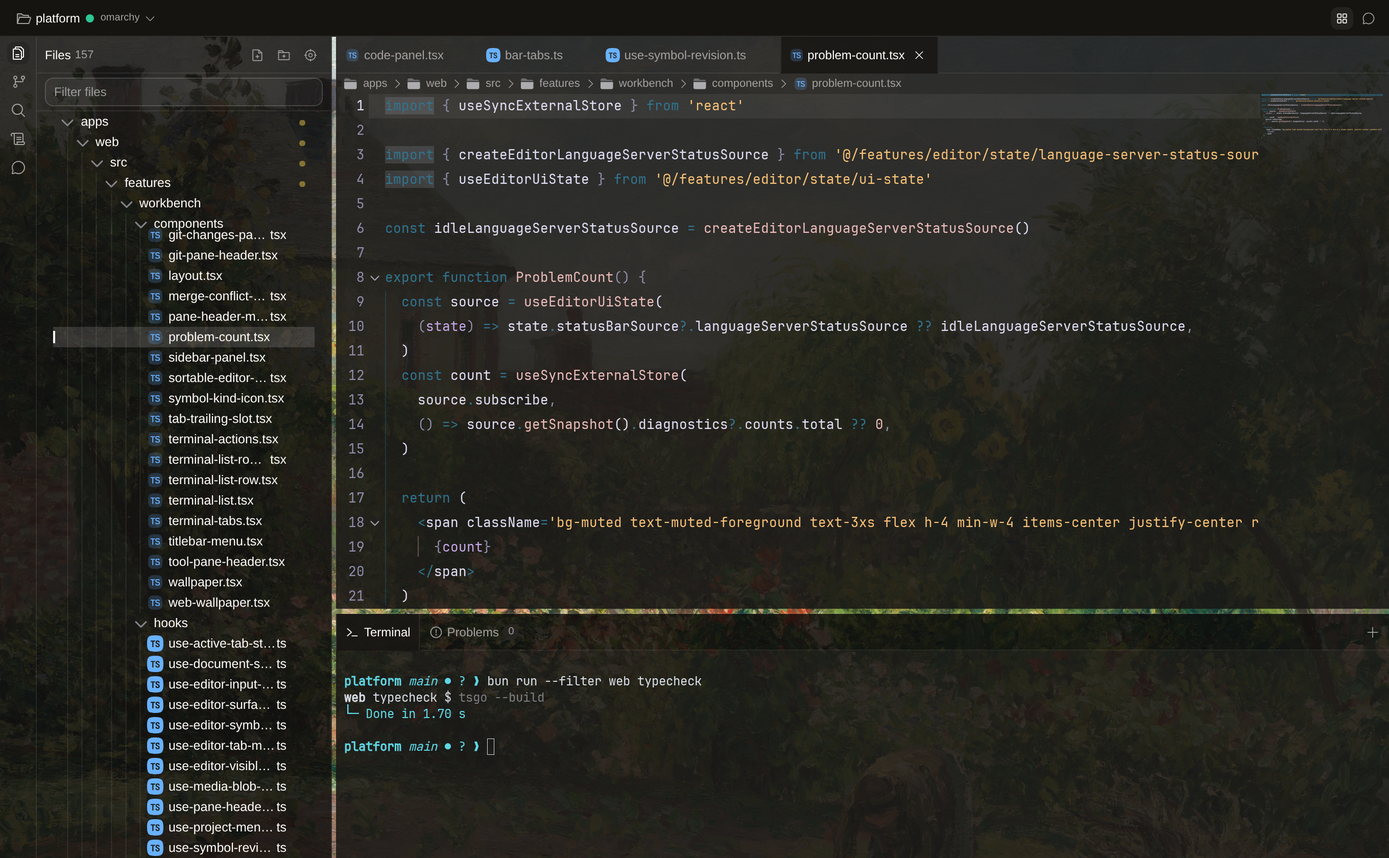
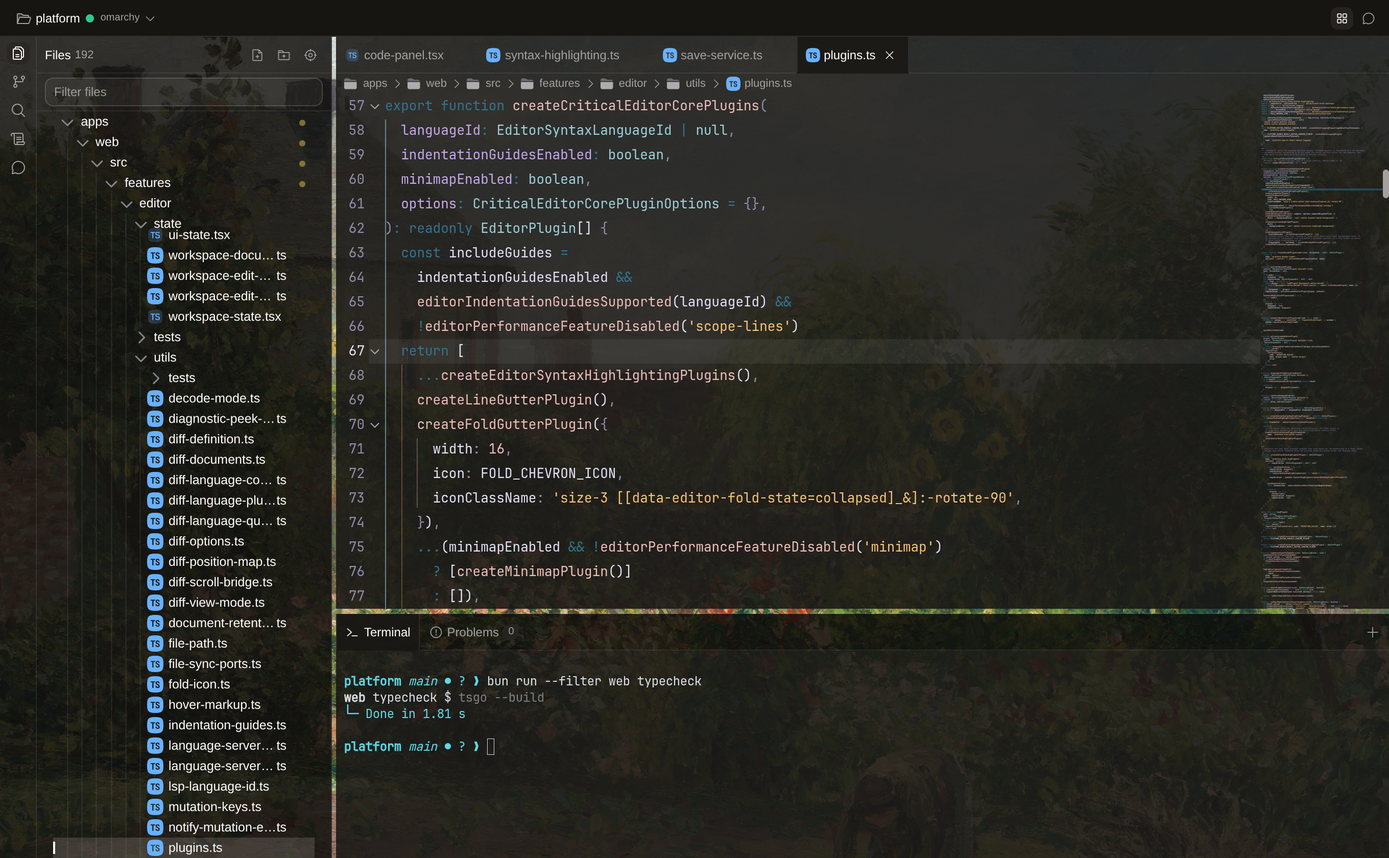
Capture the product hero with headed Chromium and preserve its pixels

diff --git a/scripts/agent/browser.ts b/scripts/agent/browser.ts
@@ -20,6 +20,7 @@ import {
 import { alignProductWallpaper, routeProductWallpaper } from './product-wallpaper'
 import { createScriptError } from '../structured-errors'
 import { isolateProductTerminals } from './product-terminal'
+import { captureBrowserRenderer } from './browser-renderer'
 
 const PRODUCT_USER_AGENT =
   'Mozilla/5.0 (Windows NT 10.0; Win64; x64) AppleWebKit/537.36 (KHTML, like Gecko) Chrome/145.0.0.0 Safari/537.36'
@@ -79,7 +80,7 @@ async function main() {
       height: { type: 'string' },
       scale: { type: 'string' },
       doctor: { type: 'boolean', default: false },
-      file: { type: 'string', default: DEFAULT_FILE },
+      file: { type: 'string' },
       headed: { type: 'boolean', default: false },
       selector: { type: 'string' },
       url: { type: 'string', default: DEFAULT_URL },
@@ -105,7 +106,7 @@ async function main() {
     productWallpaper: values['product-wallpaper'],
     compare: values.compare,
     doctor: values.doctor,
-    file: values.file,
+    file: values.file ?? (name === 'editor-product' ? 'plugins.ts' : DEFAULT_FILE),
     headed: values.headed,
     selector: values.selector,
     url: values['static-dir'] ? STATIC_PREVIEW_URL : values.url,
@@ -510,6 +511,7 @@ async function withPage(
   let saveWallpaper: (() => Promise<string>) | undefined
   let disposeTerminals: (() => Promise<string>) | undefined
   try {
+    await captureBrowserRenderer(browser, evidence, options.headed)
     if (options.productCapture) disposeTerminals = await isolateProductTerminals(page, evidence)
     const staticDirectory = options.staticDir
       ? await routeStaticPreview(page, options.staticDir)

diff --git a/scripts/agent/scenarios/editor-product.ts b/scripts/agent/scenarios/editor-product.ts
@@ -1,13 +1,13 @@
 import type { Scenario } from './index'
-import { focusEditor, openFileByName, selectors } from '../selectors'
+import { chords, focusEditor, openFileByName, selectors } from '../selectors'
 
 export const editorProduct: Scenario = {
   name: 'editor-product',
   description: 'Open real workbench source files for a high-resolution product capture.',
   async run(page, { file, step }) {
     await openFileByName(page, 'code-panel.tsx')
-    await openFileByName(page, 'bar-tabs.ts')
-    await openFileByName(page, 'use-symbol-revision.ts')
+    await openFileByName(page, 'syntax-highlighting.ts')
+    await openFileByName(page, 'save-service.ts')
     await openFileByName(page, file)
     await selectors
       .terminalSurface(page)
@@ -19,6 +19,11 @@ export const editorProduct: Scenario = {
     await step('terminal-command')
     await focusEditor(page)
     await page.keyboard.press('Control+Home')
+    if (file === 'plugins.ts') {
+      await page.keyboard.press(chords.commandPalette)
+      await selectors.paletteInput(page).fill(':67')
+      await page.keyboard.press('Enter')
+    }
     await page.waitForTimeout(1500)
     await selectors.windowToolbar(page).hover()
     await step('editor')

diff --git a/scripts/agent/browser-renderer.ts b/scripts/agent/browser-renderer.ts
@@ -1,0 +1,23 @@
+import type { Browser } from 'playwright'
+import type { Evidence } from './evidence'
+
+export async function captureBrowserRenderer(
+  browser: Browser,
+  evidence: Evidence,
+  headed: boolean,
+) {
+  const session = await browser.newBrowserCDPSession()
+  try {
+    const version = await session.send('Browser.getVersion')
+    const system = await session.send('SystemInfo.getInfo')
+    await evidence.json('browser-renderer.json', {
+      headed,
+      version,
+      gpu: system.gpu,
+      modelName: system.modelName,
+      modelVersion: system.modelVersion,
+    })
+  } finally {
+    await session.detach()
+  }
+}

diff --git a/.agents/skills/verify-fregat/features/landing.md b/.agents/skills/verify-fregat/features/landing.md
@@ -5,19 +5,19 @@ The Astro site in `apps/site` publishes at `https://shaullavo.github.io/fregat/`
 ## Capture the editor
 
 ```bash
-bun run agent:browser scenario editor-product \
+bun run agent:browser scenario editor-product --headed \
   --url https://omarchy.mesh.shaulavo.dev/platform/ \
-  --file problem-count.tsx --width 1360 --height 840 --scale 2 \
+  --file plugins.ts --width 1360 --height 840 --scale 2 \
   --product-wallpaper apps/site/src/assets/garden.jpeg
 ```
 
-The scenario opens four real source tabs and runs `bun run --filter web typecheck`. Inspect both step screenshots for a completed command and readable code. `product-terminals.json` records the capture-owned terminal IDs and cleanup results. A command failure is real output to investigate, never text to replace in an image.
+The scenario opens code-panel.tsx, syntax-highlighting.ts, save-service.ts and plugins.ts, frames the core plugin setup, and runs `bun run --filter web typecheck`. Inspect both step screenshots for a completed command and readable code. `product-terminals.json` records the capture-owned terminal IDs and cleanup results. A command failure is real output to investigate, never text to replace in an image.
 
 The wallpaper is the user's temporary choice from [dharmx/walls](https://github.com/dharmx/walls/blob/main/painting/a_painting_of_a_garden_with_a_house_and_trees.jpeg). `product-wallpaper.json` records the source and browser-only appearance overrides. The tool emulates Windows so Linux compositor wallpaper policy does not suppress the app's wallpaper layer.
 
 `product-composition.json` records the shared scene: 1600×1000 with a 1360×840 editor frame at (120, 80). The site mirrors that frame at left 7.5%, top 8%, width 85%, height 84%. Both image layers use the same centered cover crop. Keep these dimensions together when changing the composition.
 
-Copy the final screenshot into `apps/site/src/assets/workbench.webp` using lossless format conversion. Preserve the original screenshot in its evidence directory. At scale 2 the asset is 2720×1680. Link the image to the full-resolution asset so small-screen visitors can inspect it.
+Copy the final screenshot into `apps/site/src/assets/workbench.webp` using lossless format conversion. Preserve the original screenshot in its evidence directory. At scale 2 the asset is 2720×1680. Serve this screenshot directly as lossless WebP; do not recompress its text or offer a lower-resolution candidate. Link the image to the full-resolution asset so small-screen visitors can inspect it.
 
 ## Verify the page
 
@@ -30,3 +30,5 @@ bun run agent:browser look --static-dir apps/site/dist --width 390 --height 844
 Read desktop, full-main and mobile screenshots. Check `layout.json`: both images have natural dimensions, document width equals viewport width, and the product appears above the fold. Inspect the wallpaper continuity at all four frame edges. Follow the full-resolution image and the page navigation links. The static route serves only real files inside the selected build directory and starts no server.
 
 After publishing, run `bun run agent:browser look --site --url https://shaullavo.github.io/fregat/`. This checks document readiness and image loading on the live site without expecting workbench API routes.
+
+For product assets, use `--headed`. `browser-renderer.json` records the actual browser and GPU through CDP, independent of the appearance-only user-agent override. On this machine the headless shell uses SwiftShader software rendering; the headed browser uses the NVIDIA GPU. Do not infer the rendering engine from the spoofed platform string.

diff --git a/docs/verification/2026-09-14-landing-hero.md b/docs/verification/2026-09-14-landing-hero.md
@@ -17,3 +17,17 @@ Evidence, all inspected:
 Both final static previews report ready and no browser problems. Their layout records show loaded images and no document overflow at 1440px and 390px. The product scenario has no warn/error server logs; its console warnings are adapter availability and screenshot GPU readback stalls. Astro check, scripts typecheck and targeted lint pass. The final commit's pre-commit hook runs the root typecheck.
 
 The capture recipe and page verification steps live in `.agents/skills/verify-fregat/features/landing.md`. Publishing uses the existing GitHub Pages site workflow, independent of the app's mesh deployment.
+
+## Headed capture follow-up
+
+The first capture used Playwright's Chromium headless shell. A fresh controlled pair records the actual browser and GPU through CDP: headless uses `HeadlessChrome/153.0.8010.12` with SwiftShader; headed uses `Chrome/153.0.8010.12` with the NVIDIA GeForce RTX 3060 Ti and GPU compositing enabled. The appearance-only Windows user-agent override never selected the rendering engine.
+
+The replacement is a headed capture of `createCriticalEditorCorePlugins` in `plugins.ts`, with code-panel.tsx, syntax-highlighting.ts and save-service.ts open alongside it. The real terminal shows a successful web typecheck. The page now serves the original 2720×1680 lossless WebP directly, removing the lower-resolution, lossy image candidates. `layout.json` confirms that intrinsic size in the rendered page.
+
+- Headless comparison: `/work/tmp/fregat-evidence/20260914T150601Z-scenario-editor-product/`.
+- Headed comparison, same framing: `/work/tmp/fregat-evidence/20260914T150627Z-scenario-editor-product/`.
+- Final headed capture, framed from the function declaration: `/work/tmp/fregat-evidence/20260914T150818Z-scenario-editor-product/`.
+- Headed desktop preview: `/work/tmp/fregat-evidence/20260914T150858Z-look-fregat-1440x1000/`.
+- Headed mobile preview: `/work/tmp/fregat-evidence/20260914T150911Z-look-fregat-390x844/`.
+
+All listed screenshots were inspected. The headed runs report no browser problems or warn/error server logs. Capture-owned terminal cleanup succeeds. The build passes; root typecheck runs in the commit hook. Renderer metadata is now captured by every verification run, and the skill recipe explicitly selects headed mode for product assets.

diff --git a/.agents/skills/verify-fregat/SKILL.md b/.agents/skills/verify-fregat/SKILL.md
@@ -49,6 +49,8 @@ bun run agent:browser look --static-dir apps/site/dist --width 390 --height 844
 
 Read both screenshots. `layout.json` records viewport, document width, image dimensions and positions; verify every image loaded and the document fits. `--scale 2` captures at twice the CSS resolution. Landing readiness checks the main element, fonts and images instead of app API routes.
 
+Every run records its actual browser and GPU in `browser-renderer.json`. Use `--headed` for product assets and inspect that record; the headless shell can use software rendering.
+
 For a real editor hero capture, see [landing.md](features/landing.md). The `editor-product` scenario opens four source tabs and runs the web typecheck in a capture-owned terminal. Its terminal IDs are isolated from existing sessions and cleaned up after the page closes; inspect `product-terminals.json` to confirm cleanup. Wallpaper overrides affect only the fresh browser context. Never type promotional commands into an existing user's terminal.
 
 ## Evidence
